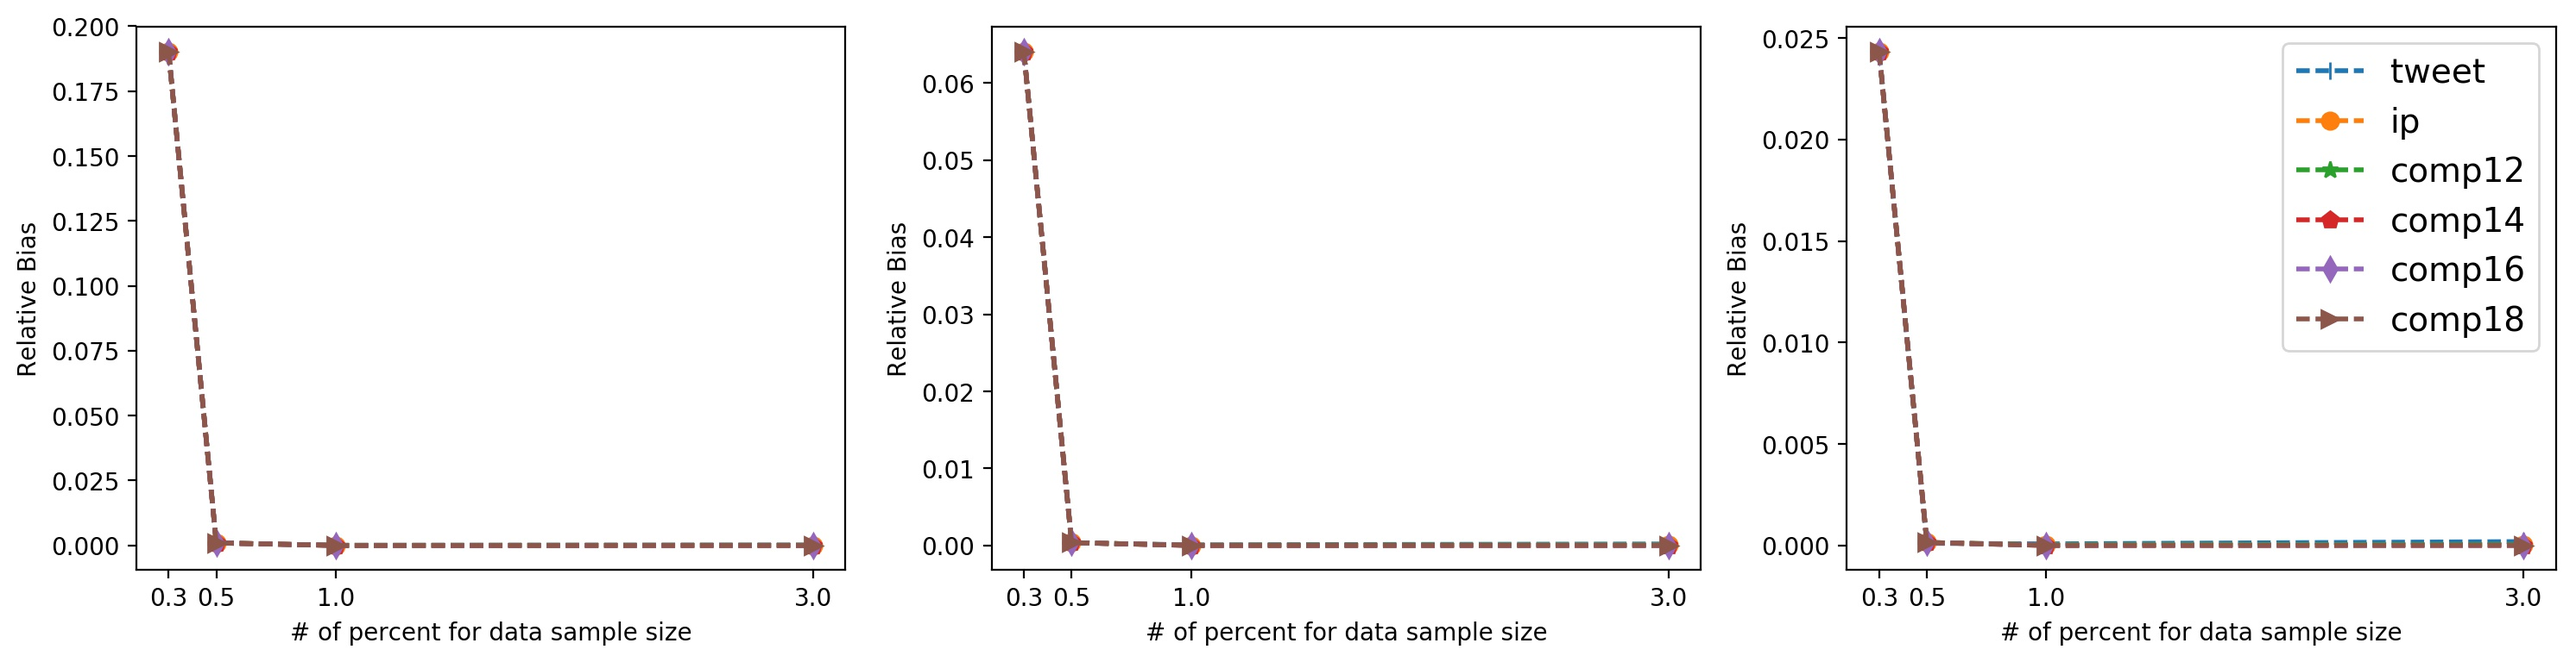
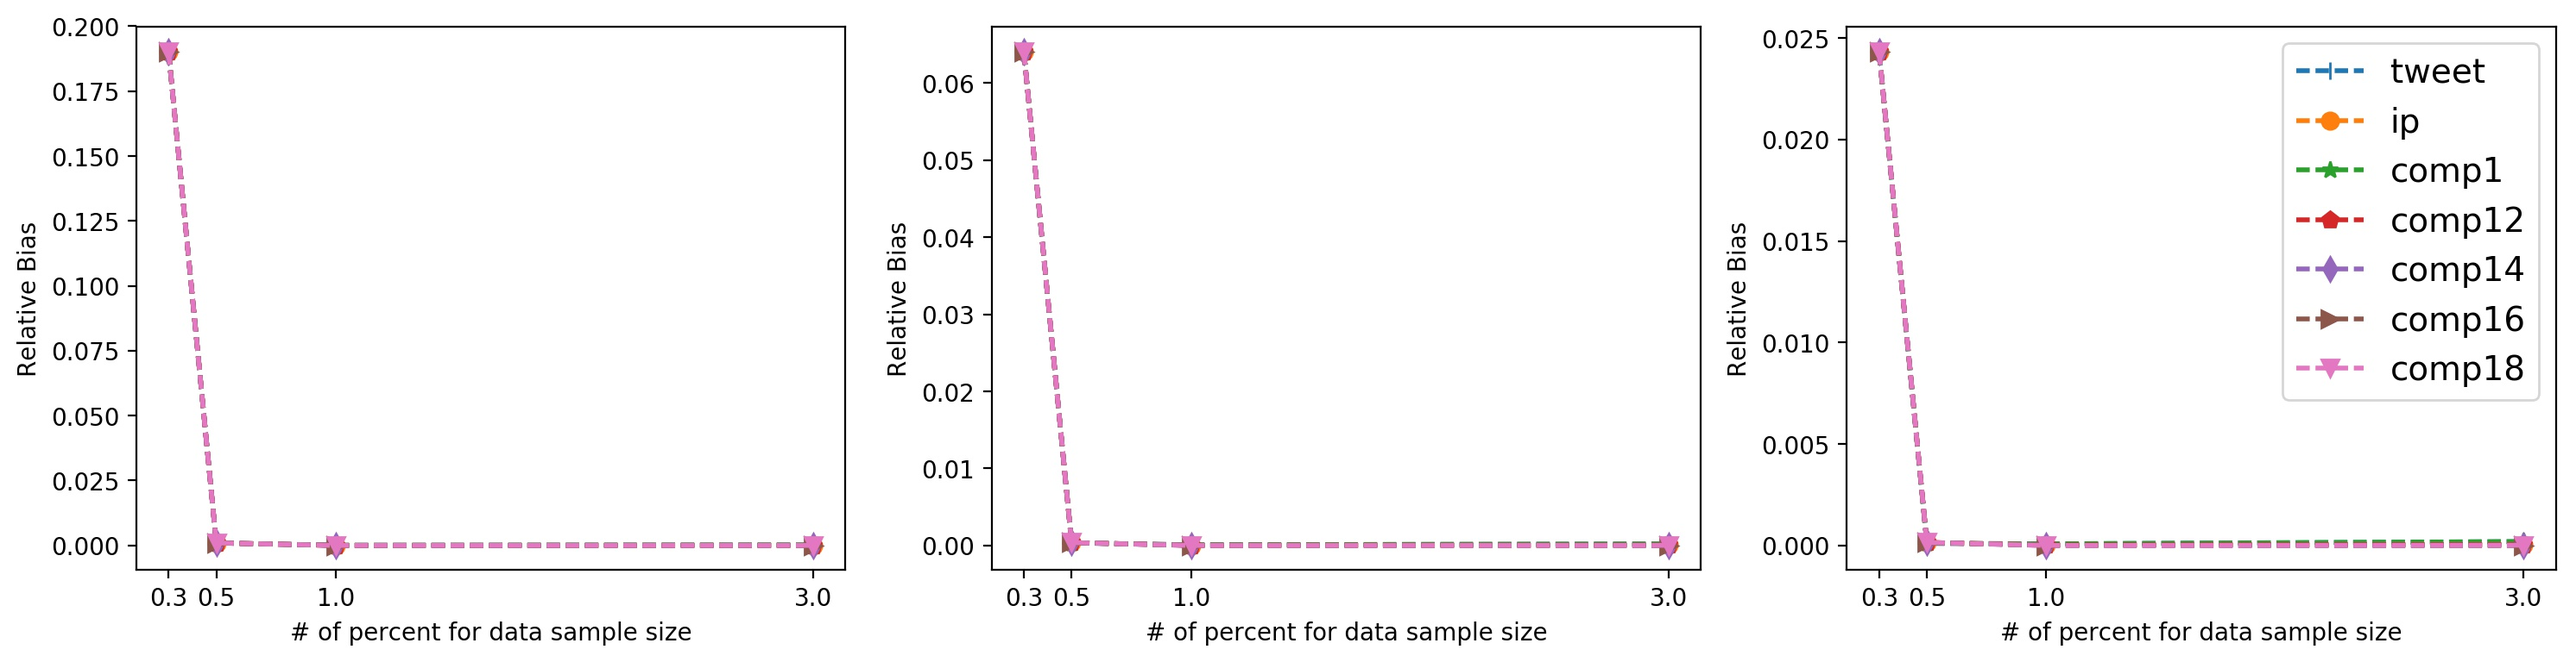
new

diff --git a/experiment/experimentQ4_analysis.py b/experiment/experimentQ4_analysis.py
@@ -1,13 +1,14 @@
 # -*- coding: utf-8 -*-
 #===================  Import ->
 # system
-#import sys; sys.path.append("..")
+import sys; sys.path.append("..")
 #import copy 
 import numpy as np
 import matplotlib.pyplot as plt
-#import os; os.chdir("D:/Alfonso Ngan/Documents/Github Project/Sketch-for-Data-Stream/experiment")
+import os; os.chdir("D:/Alfonso Ngan/Documents/Github Project/Sketch-for-Data-Stream/experiment")
 # DIY
-import diyTool
+import lib
+import lib.diyTool as diyTool
 #===================  <- Import
 #===================  path area ->
 homePath = 'D:/Alfonso Ngan/Documents/Github Project/Sketch-for-Data-Stream/experiment/result/'# use '/' as ending
@@ -17,7 +18,7 @@ Q4result_Top_P = homePath + 'Q4_Top_'
 
 #===================  <- path area
 #================  parameter ->
-percent = [0.2]#[0.01,0.03,0.05,0.1,0.2]
+percent = [0.05]#, 0.1, 0.2]#[0.01,0.03,0.05,0.1,0.2]
 evaType = {'rad':['rad_mean','rad_medium','rad_sum'],'top':['top_mean','top_medium','top_sum']}
 h = 300
 w = 10
@@ -26,7 +27,7 @@ evaNum = {'rad':[500,1000,2000,5000,10000],'top':[100,500,1000,2000,5000]}
 datasetName = 'tweet'
 figureID = 1
 dataset = [
-    ['comp18'],
+    ['comp16'],
 ]
 #================ <- parameter
 kError = 3
@@ -49,7 +50,8 @@ def getRecord(w,h,dsName,ty,dataset):
     #
     recordList = {}
     for rec in dataset:
-        if rec['w']==w  and rec['ds']==dsName: #and rec['h']==h
+        if rec['w']==10  and rec['ds']=='comp16': #and rec['h']==h
+            #print('yes')
             #here exist 5 
             for num in evaNum[ty]:
                 tem = []
@@ -67,20 +69,9 @@ def Coverage(expectRange, trueRange, OElist):
     up = expectRange[1]
     low_true = trueRange[0]
     up_true = trueRange[1]
-
     upH1 = min([up,up_true])
     lowH1 = max([low,low_true])
-    '''
-    coverOE = [] 
-    trueOE = []
-    for i in range(len(OElist)):
-        if (h1Range[i] <= upH1) and (h1Range[i] >= lowH1):
-            coverOE.append(OElist[i])
-        if (h1Range[i] <= up_true) and (h1Range[i] >= low_true):
-            trueOE.append(OElist[i]) 
-    '''
     coverPrecent = abs(upH1-lowH1)/(up_true-low_true)
-    #coverageOE = sum(coverOE)/sum(trueOE)
     return coverPrecent#, coverageOE
 
 def RelativeBias(expectOpt, trueOpt, OElist):
@@ -93,9 +84,6 @@ def RelativeBias(expectOpt, trueOpt, OElist):
             expectOE = OElist[i]
             break
     rbPrecent = abs(trueOpt-expectOpt)/trueOpt
-    #OElist.sort(reverse = False) 
-    #trueOE = np.mean(OElist[:3])
-    #rbOE = abs(trueOE-expectOE)/trueOE
     return rbPrecent#, rbOE
 
 # get range of sqrt beta
@@ -145,14 +133,14 @@ def getMedium(valueList):
     valueList.sort()
     return (valueList[int(len(valueList)/2)] + valueList[~int(len(valueList)/2)])/ 2
 
-def evaluateAnalysis(sampleP,Q4result_Rad_Path,Q4result_Top_Path,h):
+def evaluateAnalysis(path,Q4result_Rad_Path,Q4result_Top_Path,h):
     global figureID
     #resultDict = {'w':w,'h':h,'ds':datasetName}
     AlphaDict = []
     for i in range(len(percent)):
         dictKeyList = set([])
         nodeDict = {}
-        path = sampleP+datasetName+'_'+str(percent[i])+'.txt'
+        #path = sampleP+datasetName+'_'+str(percent[i])+'.txt'
         print('get sample ==== '+path)
         countNum = 0
         with open(path,'r') as f:
@@ -168,15 +156,13 @@ def evaluateAnalysis(sampleP,Q4result_Rad_Path,Q4result_Top_Path,h):
                 if s in dictKeyList:
                     nodeDict[s][1] += freq
                 else:
-                    nodeDict[s] = [0,0]
-                    nodeDict[s][1] += freq
+                    nodeDict[s] = [0,0];nodeDict[s][1] += freq
                     dictKeyList.add(s)
                 # in degree
                 if t in dictKeyList:
                     nodeDict[t][0] += freq
                 else:
-                    nodeDict[t] = [0,0]
-                    nodeDict[t][0] += freq
+                    nodeDict[t] = [0,0];nodeDict[t][0] += freq
                     dictKeyList.add(t)
         aList = []
         with open(path,'r') as f:
@@ -190,45 +176,47 @@ def evaluateAnalysis(sampleP,Q4result_Rad_Path,Q4result_Top_Path,h):
                 a = nodeDict[s][1]/nodeDict[t][0] # * freq
                 aList.append(a)
         aList.sort()
-        alphaMAX = max(aList)
-        alphaMEAN = np.mean(aList)
-        alphaMEDIUM = getMedium(aList)
+        alphaMAX = max(aList);alphaMEAN = np.mean(aList);alphaMEDIUM = getMedium(aList)
         AlphaDict.append([alphaMEAN,alphaMEDIUM,alphaMAX])
     
     # check optimal range 
     datasetRad = diyTool.loadPickle(Q4result_Rad_Path)
-    datasetTop = diyTool.loadPickle(Q4result_Top_Path)
     # check random 
     recordDict = getRecord(w,h,datasetName,'rad',datasetRad) #[3][5][100]  #5 = 100/500/1000/200/5000
+    #print(len(recordDict))
     cgPDict = {}
     rbPDict = {}
-
     for i in range(len(percent)): # 
+        print('now getting sample '+str(percent[i]))
+        cgPDict[percent[i]] = {}
+        rbPDict[percent[i]] = {}
         aList = AlphaDict[i]  #[3]
         cgPList = [[] for _ in range(9)]
         rbPList = [[] for _ in range(9)]
         for j in range(len(aList)): #  3 types of getting alpha mean/medium/max
-            print('===i j are '+str(i)+' '+str(j))
+            #print('===i j are '+str(i)+' '+str(j))
             h1h2,opt = getH1Range(aList[j])
-            print('h1h2 '+str(h1h2))
-            print('opt '+str(opt))
+            #print('h1h2 '+str(h1h2))
+            #print('opt '+str(opt))
             for n in range(5): # 500/1000/2000/5000/10000 
-                print('====== rad '+str(evaNum['rad'][n]))
+                #print('====== rad '+str(evaNum['rad'][n]))
                 for k in range(3): # 3 types of evaluating observed error
-                    print('=========evaluate way: '+evaType['rad'][k])
+                    #print('=========evaluate way: '+evaType['rad'][k])
                     h1h2Data,optData = measureH1Range(recordDict[evaNum['rad'][n]][k])
-                    print('h1h2Data '+str(h1h2Data))
-                    print('opt '+str(optData))
+                    #print('h1h2Data '+str(h1h2Data))
+                    #print('opt '+str(optData))
                     cgP = Coverage(h1h2,h1h2Data,recordDict[evaNum['rad'][n]][k])
-                    print('____cgP: '+str(cgP))
+                    #print('____cgP: '+str(cgP))
                     rbP = RelativeBias(opt,optData,recordDict[evaNum['rad'][n]][k])
-                    print('____rbP: '+str(rbP))
-                    print()                    
+                    #print('____rbP: '+str(rbP))
+                    #print()                    
                     cgPList[j*3+k].append(cgP)
                     rbPList[j*3+k].append(rbP)
-        cgPDict['rad'] = cgPList
-        rbPDict['rad'] = rbPList
+        cgPDict[percent[i]]['rad'] = cgPList
+        rbPDict[percent[i]]['rad'] = rbPList
 
+        """
+        datasetTop = diyTool.loadPickle(Q4result_Top_Path)
         cgPList = [[] for _ in range(9)]
         rbPList = [[] for _ in range(9)]
         recordDict = getRecord(w,h,datasetName,'top',datasetTop) #[3][5][100]  #5 = 100/500/1000/200/5000
@@ -253,62 +241,79 @@ def evaluateAnalysis(sampleP,Q4result_Rad_Path,Q4result_Top_Path,h):
                     rbPList[j*3+k].append(rbP)
         cgPDict['top'] = cgPList
         rbPDict['top'] = rbPList
-
+        """
     return cgPDict, rbPDict
 
 
-MediumSum = []
-MaxSum = []
-labelSet = []  
-for ds in dataset:
-    samplePath = sampleP+ds[0]+str(percent)+'.txt'
-    Q4result_Rad_Path = Q4result_Rad_P+ds[0]+'.pickle'
-    Q4result_Top_Path = Q4result_Top_P+ds[0]+'.pickle'
-    dataName = ds[0]
-    cgPDict, rbPDict = evaluateAnalysis(sampleP,Q4result_Rad_Path,Q4result_Top_Path,h)
 
-    MediumSum.append([cgPDict['rad'][5],cgPDict['top'][5],rbPDict['rad'][5],rbPDict['top'][5]])
-    MaxSum.append([cgPDict['rad'][8],cgPDict['top'][8],rbPDict['rad'][8],rbPDict['top'][8]])
-    labelSet.append(dataName)
 
-ax = [(0,0),(0,1),(1,0),(1,1)]
-markerList = ['|','o','*','p','d','>','v','+','x']
-wholeName = ["Rad Query: Coverage percent","Top Query: Coverage percent","Rad Query: Relaive-bias percent","Top Query: Relaive-bias percent"]
 plt.figure(figureID); figureID += 1
-tPlot, axes = plt.subplots(nrows=2, ncols=2,figsize=(20,15))
+markerList = ['|','o','*','p','d','>','v','+','x']
+tPlot, axes = plt.subplots(nrows=1, ncols=3,figsize=(15,4))
 tPlot.tight_layout(renderer=None, pad=3, h_pad=4, w_pad=4, rect=None)
-x = {0:[500,1000,2000,5000,10000],1:[100,500,1000,2000,5000]}
-for k in range(4):
-    i,j = ax[k]
-    for n in range(len(dataset)):
-        axes[i][j].plot(x[int(k%2)],MediumSum[k][n],label=labelSet[n],marker=markerList[n],markersize=9, linestyle='--',lw=4)
-        axes[i][j].set_xlabel('query size')
-        axes[i][j].set_ylabel('ratio value')
-        axes[i][j].set_title(wholeName[k])
-        axes[i][j].set_xticks(x)
-        axes[i][j].set_xticklabels(x)
-plt.legend(prop={'size':18})
-plt.savefig("D:/google desk PC/Q4_"+str(percent[0])+"_rad.jpg",dpi=200)  
+xRad = [500,1000,2000,5000,10000]
+for i in range(len(dataset)):
+    ds = dataset[i]
+    for k in range(len(percent)): 
+        sampleP = samplePath+ds[0]+'_'+str(percent[0])+'.txt'
+        Q4result_Rad_Path = Q4result_Rad_P+ds[0]+'.pickle'
+        Q4result_Top_Path = Q4result_Top_P+ds[0]+'.pickle'
+        dataName = ds[0]
+        cgPDict, rbPDict = evaluateAnalysis(sampleP,Q4result_Rad_Path,Q4result_Top_Path,h)
+        axes[k].plot(xRad,cgPDict[percent[k]]['rad'][5],label=dataName,marker=markerList[i],markersize=7, linestyle='--',lw=2)
+        #axes[k].plot(xRad,rbPDict[percent[k]]['rad'][5],label=dataName,marker=markerList[i],markersize=7, linestyle='--',lw=2)
 plt.show()
 
-'''
-ax = [(0,0),(0,1),(1,0),(1,1)]
-markerList = ['|','o','*','p','d','>','v','+','x']
-wholeName = ["Rad Query: Coverage percent","Top Query: Coverage percent","Rad Query: Relaive-bias percent","Top Query: Relaive-bias percent"]
+
+
+
+
+
+
+
+
+dataset1 = [
+    ['comp16'],
+    ['comp14'],
+    ['tweet'],
+    ['ip'],
+    ['comp12'],
+]
 plt.figure(figureID); figureID += 1
-tPlot, axes = plt.subplots(nrows=2, ncols=2,figsize=(20,15))
-tPlot.tight_layout(renderer=None, pad=3, h_pad=4, w_pad=4, rect=None)
-x = {0:[500,1000,2000,5000,10000],1:[100,500,1000,2000,5000]}
-for k in range(4):
-    i,j = ax[k]
-    for n in range(len(dataset)):
-        axes[i][j].plot(x[int(k%2)],MaxSum[k][n],label=dataset[],marker=markerList[n],markersize=9, linestyle='--',lw=4)
-        axes[i][j].set_xlabel('query size')
-        axes[i][j].set_ylabel('ratio value')
-        axes[i][j].set_title(wholeName[k])
-        axes[i][j].set_xticks(x)
-        axes[i][j].set_xticklabels(x)
-plt.legend(prop={'size':18})
-plt.savefig("D:/google desk PC/Q4_"+datasetName+"_h"+str(h)+"_20%_rad.jpg",dpi=200)  
+# 只要 0.1%
+markerList = ['|','o','*','p','d','>','v','+','x']
+tPlot, axes = plt.subplots(nrows=5, ncols=2,figsize=(10,20))
+tPlot.tight_layout(renderer=None, pad=2, h_pad=2, w_pad=2, rect=None)
+for i in range(len(dataset1)):#
+    if dataset1[i][0] == 'comp12':
+        cgPDict = resultSet[1][0]
+        #for k in range(len(percent)):
+        data = [d*0.9 for d in cgPDict[percent[1]]['rad'][5]]
+        axes[4][k].plot(xRad,data,label='MAX',marker=markerList[i],markersize=7, color='red', linestyle='--',lw=2)
+        data = [d*0.9 for d in cgPDict[percent[1]]['rad'][8]]
+        axes[4][k].plot(xRad,data,label='MEDIUM',marker=markerList[i],markersize=7, color='blue', linestyle='--',lw=2)
+        
+        rbPDict = resultSet[1][1]
+        #for k in range(len(percent)):
+        data = [d*0.9999 for d in rbPDict[percent[1]]['rad'][5]]
+        axes[4][k].plot(xRad,data,label='MAX',marker=markerList[i],markersize=7,color='red', linestyle='--',lw=2)
+        data = [d*0.9999 for d in rbPDict[percent[1]]['rad'][8]]
+        axes[4][k].plot(xRad,data,label='MEDIUM',marker=markerList[i],markersize=7,color='blue',  linestyle='--',lw=2)
+        break
+    else:
+        cgPDict = resultSet[i][0]
+        #for k in range(len(percent)):
+        axes[i][k].plot(xRad,cgPDict[percent[k]]['rad'][8],label='MAX',marker=markerList[i],markersize=7, linestyle='--',lw=2)
+        axes[i][k].plot(xRad,rbPDict[percent[k]]['rad'][5],label='MEDIUM',marker=markerList[i],markersize=7, linestyle='--',lw=2)
+        
+        rbPDict = resultSet[1][1]
+        axes[k].plot(xRad,data,label='MAX',marker=markerList[i],markersize=7,color='red', linestyle='--',lw=2)
+for k in range(len(percent)):
+    axes[k].set_xlabel('# of random queries with %.2f %% sample'% (percent[k]*100))
+    axes[k].set_ylabel('Optimal Coverage')
+    axes[k].set_xticks(xRad)
+    axes[k].set_xticklabels(['%d' %x for x in xRad])
+plt.suptitle('Predict with MEDIUM and Evaluate with SUM')
+plt.legend(prop={'size':14})
+plt.savefig(figurePath+"Q4_10_300_CG_mediumsum.jpg",dpi=200,bbox_inches='tight')  
 plt.show()
-'''

diff --git a/experiment/q4_draw.py b/experiment/q4_draw.py
@@ -7,10 +7,15 @@ figureID = 1
 
 plt.figure(1)
 Epsilon = [20,21,22]
-standard = [1-1/((e**2)**w) for e in Epsilon]
+#standard = [1-1/((e**2)**w) for e in Epsilon]
 #percent = [0.001, 0.003, 0.005, 0.01, 0.03, 0.05, 0.1, 0.2]
-percent = [0.003, 0.005, 0.01, 0.03]
+percent = [0.05, 0.1, 0.2]
 nSet = [int(1/percent[i]) for i in range(len(percent))]
+
+
+
+
+
 
 for ds in dataset:
     dataName = ds[0]
